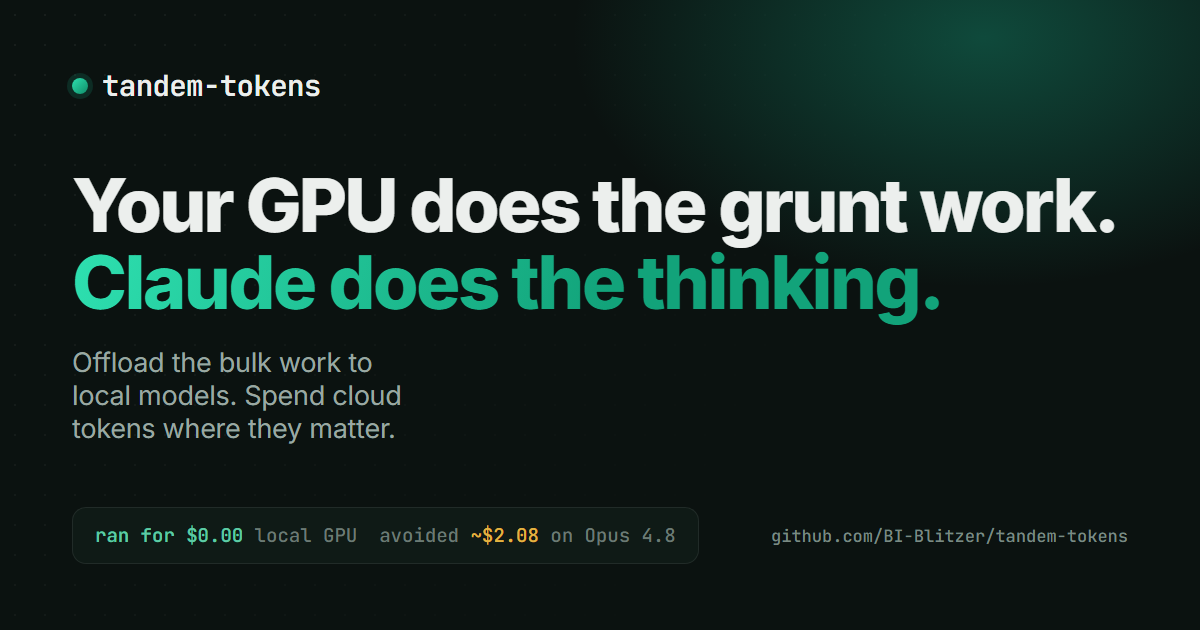
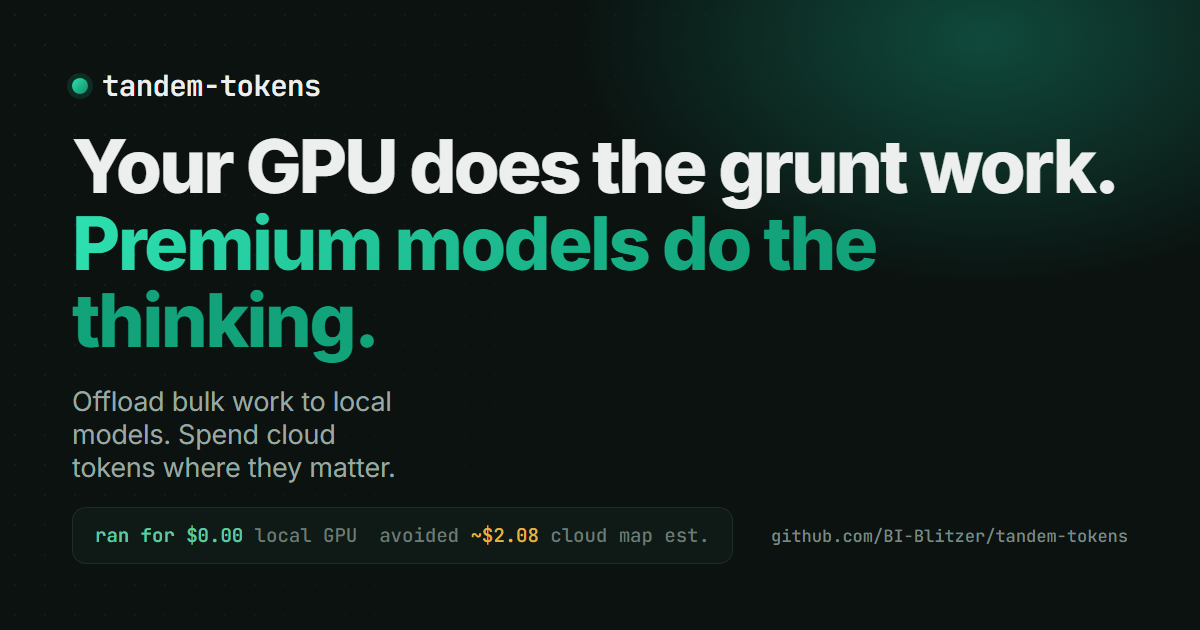
Finish scale harvest, refresh OG card, real-data jobs, daemon at logon.
- Re-export docs/og-card.png from social-card (premium models copy)
- Scale campaign harvest: 120 tickets + 1k contacts, phone normalize 100%
- jobs/real_* + data/real drop zone for production exports
- Startup-folder daemon autostart (Task Scheduler blocked by permissions)

Changed region(s): [[0.0617, 0.2111, 0.925, 0.7841], [0.4625, 0.8444, 0.5858, 0.8746]]

diff --git a/data/real/README.md b/data/real/README.md
@@ -1,0 +1,28 @@
+# Real data drop zone
+
+Put production exports here (gitignored via `data/*` except `hybrid_campaign/`).
+Job specs under `jobs/real_*.job.json` point at these paths.
+
+## Expected files
+
+| Path | Use case | Format |
+|------|----------|--------|
+| `contacts.csv` | UC1 clean | columns: `id,name,email,phone` (header required) |
+| `support_tickets.jsonl` | UC2 pipeline | one JSON object per line: `{"id": int, "text": "..."}` |
+| `docs.jsonl` | UC3 summarize | `{"id","domain","title","body"}` per line |
+
+## Quick start
+
+```pwsh
+# 1) Drop files into data/real/
+# 2) Submit (daemon must be running)
+ollamaq submit jobs/real_uc1_contacts.job.json --job-id real-uc1
+ollamaq submit jobs/real_uc2_support.job.json --job-id real-uc2
+ollamaq submit jobs/real_uc3_docs.job.json --job-id real-uc3
+
+# 3) Harvest
+ollamaq digest real-uc1
+py scripts/normalize_contacts_from_source.py data/real/contacts.csv results/real-uc1/merged.jsonl
+```
+
+If a file is missing, `ollamaq run` fails fast with a clear path error — that is intentional.
